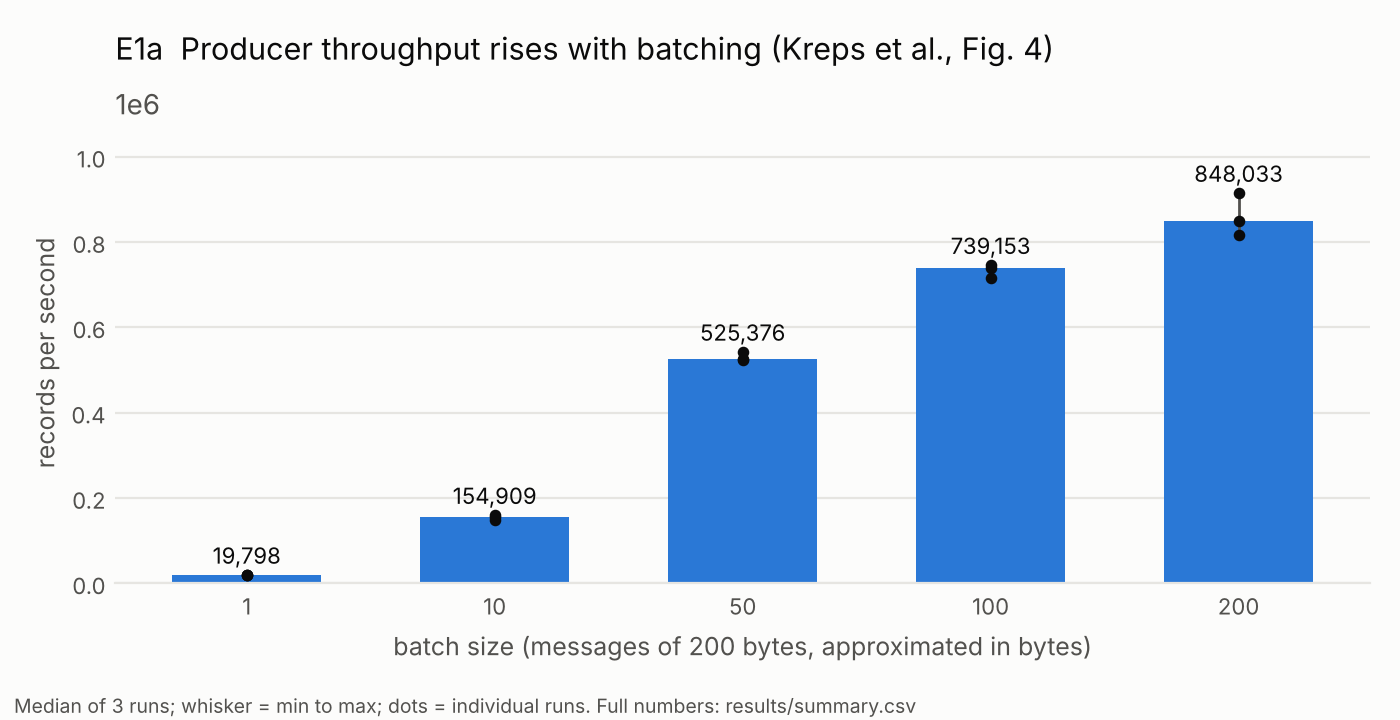
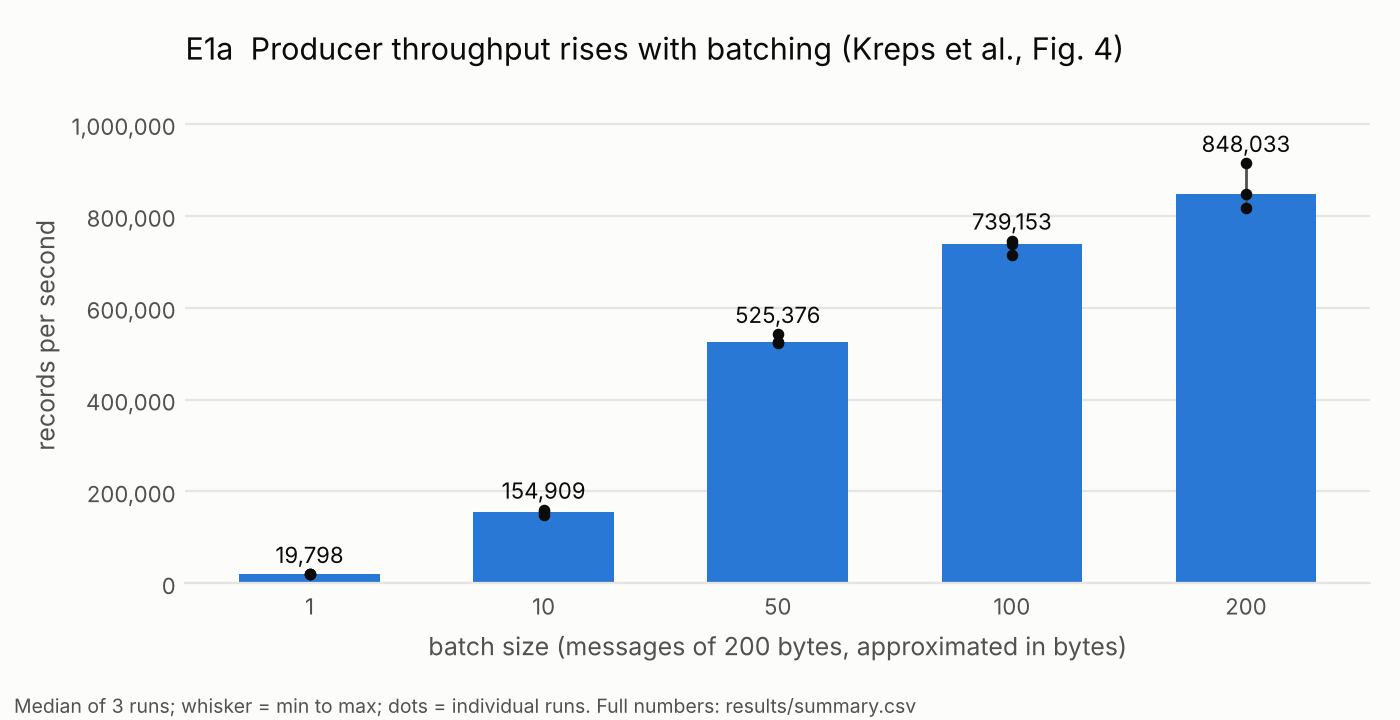
T32, T33: final M3 results (72 runs) and figures; latency compared below saturation
Claude-Session: https://claude.ai/code/session_01QQWscJ9bDsiLhSn87GmwEd

diff --git a/bench/summarize.py b/bench/summarize.py
@@ -234,6 +234,10 @@ def bars(ax, labels, rows, color=BLUE, fmt="{:,.0f}", prefixes=None):
     ax.set_xticks(list(xs), labels)
     top = max((r["max"] for r in rows if r), default=0)
     ax.set_ylim(0, top * 1.18 if top > 0 else 1)  # counts and durations start at zero, even when all are 0
+    if top >= 1000:
+        from matplotlib.ticker import FuncFormatter
+
+        ax.yaxis.set_major_formatter(FuncFormatter(lambda v, _: f"{v:,.0f}"))
 
 
 def plain_log_axis(ax):
@@ -256,6 +260,32 @@ def save(fig, path: Path, note: str):
     fig.text(0.01, 0.01, note, fontsize=7, color=INK2)
     fig.tight_layout(rect=(0, 0.04, 1, 1))
     fig.savefig(path, dpi=200, facecolor=SURFACE)
+
+
+def bar_latency_figure(t, panels, path: Path) -> list[str]:
+    if panels:
+        plt, fig, axes = new_fig(len(panels), width=8.5)
+        for ax, (title, settings, label, common) in zip(axes, panels, strict=True):
+            xs = list(range(len(settings)))
+            for i, (p, color) in enumerate((("p50", BLUE), ("p95", ORANGE), ("p99", AQUA))):
+                ys = [t.get("e1c", s, f"latency_{p}", common)["median"] / 1000 for s in settings]
+                ax.bar([x + (i - 1) * 0.26 for x in xs], ys, width=0.24, color=color, label=p, zorder=2)
+            ax.set_xticks(xs, [label(s) for s in settings])
+            ax.legend(frameon=False, fontsize=8, ncols=3, loc="upper left")
+            style(ax, f"{title}, at {common:,} records/s", "seconds")
+            ax.set_ylim(0, ax.get_ylim()[1] * 1.15)
+        fig.suptitle(
+            "E1c  Bar latency: window end + watermark to row written (RQ1)",
+            x=0.01,
+            ha="left",
+            fontsize=11,
+            color=INK,
+        )
+        save(fig, path,
+                 "Median over 3 runs of each run's percentile. The two sweeps ran on different CPUs (results/MACHINE.md): compare within a panel.")  # fmt: skip
+        plt.close(fig)
+        return [path.name]
+    return []
 
 
 def figures(t: Rows, data, out: Path) -> list[str]:
@@ -364,40 +394,16 @@ def figures(t: Rows, data, out: Path) -> list[str]:
         plt.close(fig)
         made.append("e1c_sustained_throughput.png")
 
-        # bar latency, partitions and triggers in separate panels, each at the highest rate all its
-        # settings were run at (each sweep ran on one CPU; they are not compared with each other)
+        # bar latency, partitions and triggers in separate panels (each sweep ran on one CPU; they are
+        # not compared with each other), one figure per load level. Compared below saturation: at the
+        # top rate the latency is backlog, not the setting's behaviour.
         groups = [("by partitions (trigger 1 s)", part, lambda s: s.split("-")[0].removeprefix("p") + " part."),
                   ("by trigger interval (6 partitions)", trig, lambda s: s.split("-")[1])]  # fmt: skip
-        panels = []
-        for title, settings, label in groups:
-            common = None
-            for rate in sorted({r["rate"] for r in t.rows if r["experiment"] == "e1c" and r["rate"] != ""}):
-                if settings and all(t.get("e1c", s, "latency_p50", rate) for s in settings):
-                    common = rate  # the highest common rate wins
-            if common:
-                panels.append((title, settings, label, common))
-        if panels:
-            plt, fig, axes = new_fig(len(panels), width=8.5)
-            for ax, (title, settings, label, common) in zip(axes, panels, strict=True):
-                xs = list(range(len(settings)))
-                for i, (p, color) in enumerate((("p50", BLUE), ("p95", ORANGE), ("p99", AQUA))):
-                    ys = [t.get("e1c", s, f"latency_{p}", common)["median"] / 1000 for s in settings]
-                    ax.bar([x + (i - 1) * 0.26 for x in xs], ys, width=0.24, color=color, label=p, zorder=2)
-                ax.set_xticks(xs, [label(s) for s in settings])
-                ax.legend(frameon=False, fontsize=8, ncols=3, loc="upper left")
-                style(ax, f"{title}, at {common:,} records/s", "seconds")
-                ax.set_ylim(0, ax.get_ylim()[1] * 1.15)
-            fig.suptitle(
-                "E1c  Bar latency: window end + watermark to row written (RQ1)",
-                x=0.01,
-                ha="left",
-                fontsize=11,
-                color=INK,
-            )
-            save(fig, out / "e1c_bar_latency.png",
-                 "Median over 3 runs of each run's percentile. The two sweeps ran on different CPUs (results/MACHINE.md): compare within a panel.")  # fmt: skip
-            plt.close(fig)
-            made.append("e1c_bar_latency.png")
+        for common in (30000, 60000):
+            panels = [(title, settings, label, common) for title, settings, label in groups
+                      if settings and all(t.get("e1c", s, "latency_p50", common) for s in settings)]  # fmt: skip
+            if panels:
+                made += bar_latency_figure(t, panels, out / f"e1c_bar_latency_{common // 1000}k.png")
 
     # E2: broker crash (RQ2)
     e2 = [s for s in ("acks-1", "acks-all", "acks-all-no-idempotence") if t.get("e2", s, "lost_trades")]

diff --git a/results/RESULTS.md b/results/RESULTS.md
@@ -109,6 +109,28 @@ Generated by `uv run python -m bench.summarize` from `results/raw`. Each cell: m
 | p3-1s | 90,000 | latency_p99 (3) | ms | 4,204.46 | 3,302.555 to 5,768.995 |
 | p3-1s | 90,000 | keeps_up (3) | fraction of runs | 1.0 | 1.0 to 1.0 |
 | p3-1s | 90,000 | batch_duration_p50 (3) | ms | 1,230.5 | 1,203.0 to 1,460.0 |
+| p6-100ms |  | sustained_throughput (3) | records/s | 90,000.0 | 75,000.0 to 90,000.0 |
+| p6-100ms |  | sustained_is_lower_bound (3) | fraction of runs | 1.0 | 0.0 to 1.0 |
+| p6-100ms | 30,000 | latency_p50 (3) | ms | 2,206.876 | 1,992.225 to 2,359.895 |
+| p6-100ms | 30,000 | latency_p95 (3) | ms | 2,990.259 | 2,740.349 to 3,101.142 |
+| p6-100ms | 30,000 | latency_p99 (3) | ms | 2,991.113 | 2,740.876 to 3,101.253 |
+| p6-100ms | 30,000 | keeps_up (3) | fraction of runs | 1.0 | 1.0 to 1.0 |
+| p6-100ms | 30,000 | batch_duration_p50 (3) | ms | 832.0 | 798.0 to 901.5 |
+| p6-100ms | 60,000 | latency_p50 (3) | ms | 6,396.893 | 4,983.881 to 7,078.554 |
+| p6-100ms | 60,000 | latency_p95 (3) | ms | 7,151.932 | 6,341.203 to 8,328.838 |
+| p6-100ms | 60,000 | latency_p99 (3) | ms | 7,152.145 | 6,341.322 to 8,329.087 |
+| p6-100ms | 60,000 | keeps_up (3) | fraction of runs | 1.0 | 1.0 to 1.0 |
+| p6-100ms | 60,000 | batch_duration_p50 (3) | ms | 2,411.0 | 2,212.5 to 2,630.0 |
+| p6-100ms | 75,000 | latency_p50 (1) | ms | 9,588.663 | 9,588.663 to 9,588.663 |
+| p6-100ms | 75,000 | latency_p95 (1) | ms | 14,705.787 | 14,705.787 to 14,705.787 |
+| p6-100ms | 75,000 | latency_p99 (1) | ms | 14,716.954 | 14,716.954 to 14,716.954 |
+| p6-100ms | 75,000 | keeps_up (1) | fraction of runs | 1.0 | 1.0 to 1.0 |
+| p6-100ms | 75,000 | batch_duration_p50 (1) | ms | 4,204.0 | 4,204.0 to 4,204.0 |
+| p6-100ms | 90,000 | latency_p50 (3) | ms | 39,847.963 | 20,855.289 to 52,874.653 |
+| p6-100ms | 90,000 | latency_p95 (3) | ms | 46,284.781 | 24,946.753 to 62,565.227 |
+| p6-100ms | 90,000 | latency_p99 (3) | ms | 46,285.436 | 24,946.906 to 62,565.349 |
+| p6-100ms | 90,000 | keeps_up (3) | fraction of runs | 1.0 | 0.0 to 1.0 |
+| p6-100ms | 90,000 | batch_duration_p50 (3) | ms | 18,470.0 | 8,308.0 to 19,906.0 |
 | p6-1s |  | sustained_throughput (3) | records/s | 90,000.0 | 90,000.0 to 90,000.0 |
 | p6-1s |  | sustained_is_lower_bound (3) | fraction of runs | 1.0 | 1.0 to 1.0 |
 | p6-1s | 30,000 | latency_p50 (3) | ms | 2,476.069 | 2,200.242 to 2,634.415 |
@@ -126,6 +148,57 @@ Generated by `uv run python -m bench.summarize` from `results/raw`. Each cell: m
 | p6-1s | 90,000 | latency_p99 (3) | ms | 7,245.379 | 6,677.725 to 8,637.553 |
 | p6-1s | 90,000 | keeps_up (3) | fraction of runs | 1.0 | 1.0 to 1.0 |
 | p6-1s | 90,000 | batch_duration_p50 (3) | ms | 2,636.5 | 2,094.0 to 2,904.0 |
+| p6-1s-b |  | sustained_throughput (3) | records/s | 90,000.0 | 90,000.0 to 90,000.0 |
+| p6-1s-b |  | sustained_is_lower_bound (3) | fraction of runs | 1.0 | 1.0 to 1.0 |
+| p6-1s-b | 30,000 | latency_p50 (3) | ms | 2,867.745 | 2,667.176 to 2,919.088 |
+| p6-1s-b | 30,000 | latency_p95 (3) | ms | 3,078.564 | 3,055.488 to 3,520.648 |
+| p6-1s-b | 30,000 | latency_p99 (3) | ms | 3,078.735 | 3,055.742 to 3,520.771 |
+| p6-1s-b | 30,000 | keeps_up (3) | fraction of runs | 1.0 | 1.0 to 1.0 |
+| p6-1s-b | 30,000 | batch_duration_p50 (3) | ms | 858.0 | 804.0 to 911.5 |
+| p6-1s-b | 60,000 | latency_p50 (3) | ms | 4,877.546 | 4,529.565 to 6,234.093 |
+| p6-1s-b | 60,000 | latency_p95 (3) | ms | 5,939.403 | 5,733.544 to 10,820.656 |
+| p6-1s-b | 60,000 | latency_p99 (3) | ms | 5,941.782 | 5,733.848 to 10,822.816 |
+| p6-1s-b | 60,000 | keeps_up (3) | fraction of runs | 1.0 | 1.0 to 1.0 |
+| p6-1s-b | 60,000 | batch_duration_p50 (3) | ms | 1,967.5 | 1,868.0 to 2,745.0 |
+| p6-1s-b | 90,000 | latency_p50 (3) | ms | 19,609.916 | 11,950.387 to 21,901.083 |
+| p6-1s-b | 90,000 | latency_p95 (3) | ms | 25,123.576 | 21,780.749 to 28,329.907 |
+| p6-1s-b | 90,000 | latency_p99 (3) | ms | 25,124.909 | 21,782.017 to 28,330.474 |
+| p6-1s-b | 90,000 | keeps_up (3) | fraction of runs | 1.0 | 1.0 to 1.0 |
+| p6-1s-b | 90,000 | batch_duration_p50 (3) | ms | 7,212.0 | 5,620.0 to 9,267.0 |
+| p6-500ms |  | sustained_throughput (3) | records/s | 90,000.0 | 90,000.0 to 90,000.0 |
+| p6-500ms |  | sustained_is_lower_bound (3) | fraction of runs | 1.0 | 1.0 to 1.0 |
+| p6-500ms | 30,000 | latency_p50 (3) | ms | 1,692.635 | 1,656.849 to 1,811.635 |
+| p6-500ms | 30,000 | latency_p95 (3) | ms | 2,272.651 | 2,007.675 to 4,224.508 |
+| p6-500ms | 30,000 | latency_p99 (3) | ms | 2,272.843 | 2,007.881 to 4,224.77 |
+| p6-500ms | 30,000 | keeps_up (3) | fraction of runs | 1.0 | 1.0 to 1.0 |
+| p6-500ms | 30,000 | batch_duration_p50 (3) | ms | 680.5 | 623.0 to 747.0 |
+| p6-500ms | 60,000 | latency_p50 (3) | ms | 5,721.132 | 4,961.257 to 5,943.52 |
+| p6-500ms | 60,000 | latency_p95 (3) | ms | 5,906.4 | 5,098.9 to 6,148.875 |
+| p6-500ms | 60,000 | latency_p99 (3) | ms | 5,906.557 | 5,099.072 to 6,149.294 |
+| p6-500ms | 60,000 | keeps_up (3) | fraction of runs | 1.0 | 1.0 to 1.0 |
+| p6-500ms | 60,000 | batch_duration_p50 (3) | ms | 2,098.0 | 1,905.0 to 2,324.0 |
+| p6-500ms | 90,000 | latency_p50 (3) | ms | 21,847.031 | 21,732.823 to 36,526.123 |
+| p6-500ms | 90,000 | latency_p95 (3) | ms | 26,955.175 | 23,387.992 to 37,583.265 |
+| p6-500ms | 90,000 | latency_p99 (3) | ms | 26,955.352 | 23,388.217 to 37,583.754 |
+| p6-500ms | 90,000 | keeps_up (3) | fraction of runs | 1.0 | 1.0 to 1.0 |
+| p6-500ms | 90,000 | batch_duration_p50 (3) | ms | 8,187.0 | 7,437.0 to 13,200.0 |
+| p6-5s |  | sustained_throughput (3) | records/s | 90,000.0 | 90,000.0 to 90,000.0 |
+| p6-5s |  | sustained_is_lower_bound (3) | fraction of runs | 1.0 | 1.0 to 1.0 |
+| p6-5s | 30,000 | latency_p50 (3) | ms | 7,205.65 | 6,633.735 to 12,711.177 |
+| p6-5s | 30,000 | latency_p95 (3) | ms | 12,623.596 | 8,682.001 to 12,810.713 |
+| p6-5s | 30,000 | latency_p99 (3) | ms | 12,623.79 | 8,682.619 to 12,810.924 |
+| p6-5s | 30,000 | keeps_up (3) | fraction of runs | 1.0 | 1.0 to 1.0 |
+| p6-5s | 30,000 | batch_duration_p50 (3) | ms | 1,987.5 | 1,774.5 to 2,127.5 |
+| p6-5s | 60,000 | latency_p50 (3) | ms | 8,741.437 | 8,507.37 to 9,119.45 |
+| p6-5s | 60,000 | latency_p95 (3) | ms | 9,708.429 | 9,283.291 to 15,096.957 |
+| p6-5s | 60,000 | latency_p99 (3) | ms | 9,708.811 | 9,284.382 to 15,097.732 |
+| p6-5s | 60,000 | keeps_up (3) | fraction of runs | 1.0 | 1.0 to 1.0 |
+| p6-5s | 60,000 | batch_duration_p50 (3) | ms | 3,773.0 | 3,637.0 to 3,910.5 |
+| p6-5s | 90,000 | latency_p50 (3) | ms | 21,318.917 | 18,735.293 to 31,135.043 |
+| p6-5s | 90,000 | latency_p95 (3) | ms | 24,594.9 | 23,538.619 to 36,187.718 |
+| p6-5s | 90,000 | latency_p99 (3) | ms | 24,595.115 | 23,538.862 to 36,188.068 |
+| p6-5s | 90,000 | keeps_up (3) | fraction of runs | 1.0 | 1.0 to 1.0 |
+| p6-5s | 90,000 | batch_duration_p50 (3) | ms | 8,587.5 | 7,389.0 to 12,561.0 |
 
 ## E2 Broker crash (RQ2)
 
@@ -192,7 +265,8 @@ Generated by `uv run python -m bench.summarize` from `results/raw`. Each cell: m
 ![e1a_producer_batching.png](figures/e1a_producer_batching.png)
 ![e1b_continuous_vs_microbatch.png](figures/e1b_continuous_vs_microbatch.png)
 ![e1c_sustained_throughput.png](figures/e1c_sustained_throughput.png)
-![e1c_bar_latency.png](figures/e1c_bar_latency.png)
+![e1c_bar_latency_30k.png](figures/e1c_bar_latency_30k.png)
+![e1c_bar_latency_60k.png](figures/e1c_bar_latency_60k.png)
 ![e2_broker_crash.png](figures/e2_broker_crash.png)
 ![e3_spark_recovery.png](figures/e3_spark_recovery.png)
 ![e4_exactly_once.png](figures/e4_exactly_once.png)

diff --git a/results/MACHINE.md b/results/MACHINE.md
@@ -18,7 +18,11 @@ Generated by `uv run python -m bench.summarize` from the runs' own `config.json`
 | e1b / microbatch-p4-100ms | machine B (3) |
 | e1c / p1-1s | machine B (3) |
 | e1c / p3-1s | machine B (3) |
+| e1c / p6-100ms | machine A (3) |
 | e1c / p6-1s | machine B (3) |
+| e1c / p6-1s-b | machine A (3) |
+| e1c / p6-500ms | machine A (3) |
+| e1c / p6-5s | machine A (3) |
 | e2 / acks-1 | machine A (6) |
 | e2 / acks-all | machine A (3) |
 | e2 / acks-all-no-idempotence | machine A (3) |
@@ -29,8 +33,8 @@ Generated by `uv run python -m bench.summarize` from the runs' own `config.json`
 | e4 / upsert-cost | machine B (3) |
 | e4 / upsert-crash | machine A (3) |
 
-Runs: 60, from 2026-11-11T22:33:23.675313+00:00 to 2026-11-12T13:50:22.664283+00:00 (UTC).
-Git commits: 1845378b9b, 85e2e88937, 864474fc19.
+Runs: 72, from 2026-11-11T22:33:23.675313+00:00 to 2026-11-12T22:16:53.218926+00:00 (UTC).
+Git commits: 1845378b9b, 85e2e88937, 864474fc19, c48100dff2.
 
 ## Versions
 
